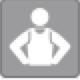
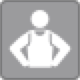
1. Added image support on base object and image display in workout history 2. Added new format for ISO8601 to handle time with milliseconds 3. Added test for the date formatting

diff --git a/sporttracksTests/sporttracksTests.m b/sporttracksTests/sporttracksTests.m
@@ -7,7 +7,7 @@
 //
 
 #import <XCTest/XCTest.h>
-
+#import "NSDate+RFCAndISO.h"
 @interface sporttracksTests : XCTestCase
 
 @end
@@ -26,9 +26,87 @@
     [super tearDown];
 }
 
-- (void)testExample
+- (void)testDateFromRFC1123String
 {
-    XCTFail(@"No implementation for \"%s\"", __PRETTY_FUNCTION__);
+    NSString *test = @"Sun, 06 Nov 1994 08:49:37 GMT"; // RFC 822, updated by RFC 1123
+    NSDate *date = [NSDate dateFromRFC1123String:test];
+    XCTAssert(date != nil, @"String %@ should get properly transformed into a date", test);
+}
+
+- (void)testDateFromRFC850String
+{
+    NSString *test = @"Sunday, 06-Nov-94 08:49:37 GMT"; // RFC 850, obsoleted by RFC 1036
+    NSDate *date = [NSDate dateFromRFC1123String:test];
+    XCTAssert(date != nil, @"String %@ should get properly transformed into a date", test);
+}
+
+- (void)testDateFromAnsiString
+{
+    NSString *test = @"Sun Nov  6 08:49:37 1994"; // ANSI C's asctime() format
+    NSDate *date = [NSDate dateFromRFC1123String:test];
+    XCTAssert(date != nil, @"String %@ should get properly transformed into a date", test);
+}
+
+- (void)testDateFromISO8601StringWithoutMilliseconds
+{
+    NSString *test = @"2012-04-23T13:12:34-05:00";
+    NSDate *date = [NSDate dateFromISO8601String:test];
+    XCTAssert(date != nil, @"String %@ should get properly transformed into a date", test);
+    
+    test = @"2012-04-23T13:12:34+05:00";
+    date = [NSDate dateFromISO8601String:test];
+    XCTAssert(date != nil, @"String %@ should get properly transformed into a date", test);
+    
+    test = @"2012-04-23T13:12:34-0500";
+    date = [NSDate dateFromISO8601String:test];
+    XCTAssert(date != nil, @"String %@ should get properly transformed into a date", test);
+    
+    test = @"2012-04-23T13:12:34+0500";
+    date = [NSDate dateFromISO8601String:test];
+    XCTAssert(date != nil, @"String %@ should get properly transformed into a date", test);
+    
+    test = @"2012-04-23T13:12:34-05";
+    date = [NSDate dateFromISO8601String:test];
+    XCTAssert(date != nil, @"String %@ should get properly transformed into a date", test);
+    
+    test = @"2012-04-23T13:12:34+05";
+    date = [NSDate dateFromISO8601String:test];
+    XCTAssert(date != nil, @"String %@ should get properly transformed into a date", test);
+    
+    test = @"2012-04-23T13:12:34Z";
+    date = [NSDate dateFromISO8601String:test];
+    XCTAssert(date != nil, @"String %@ should get properly transformed into a date", test);
+}
+
+- (void)testDateFromISO8601StringWithMilliseconds
+{
+    NSString *test = @"2012-04-23T13:12:34.456-05:00";
+    NSDate *date = [NSDate dateFromISO8601String:test];
+    XCTAssert(date != nil, @"String %@ should get properly transformed into a date", test);
+    
+    test = @"2012-04-23T13:12:34.456+05:00";
+    date = [NSDate dateFromISO8601String:test];
+    XCTAssert(date != nil, @"String %@ should get properly transformed into a date", test);
+    
+    test = @"2012-04-23T13:12:34.456-0500";
+    date = [NSDate dateFromISO8601String:test];
+    XCTAssert(date != nil, @"String %@ should get properly transformed into a date", test);
+    
+    test = @"2012-04-23T13:12:34.456+0500";
+    date = [NSDate dateFromISO8601String:test];
+    XCTAssert(date != nil, @"String %@ should get properly transformed into a date", test);
+    
+    test = @"2012-04-23T13:12:34.456-05";
+    date = [NSDate dateFromISO8601String:test];
+    XCTAssert(date != nil, @"String %@ should get properly transformed into a date", test);
+    
+    test = @"2012-04-23T13:12:34.456+05";
+    date = [NSDate dateFromISO8601String:test];
+    XCTAssert(date != nil, @"String %@ should get properly transformed into a date", test);
+    
+    test = @"2012-04-23T13:12:34.456Z";
+    date = [NSDate dateFromISO8601String:test];
+    XCTAssert(date != nil, @"String %@ should get properly transformed into a date", test);
 }
 
 @end

diff --git a/sporttracks/NSDate+RFCAndISO.m b/sporttracks/NSDate+RFCAndISO.m
@@ -58,11 +58,9 @@ static NSDateFormatter *__rfc1123DateFormatter = nil;
         __iso8601DateFormatter.timeZone = [NSTimeZone timeZoneForSecondsFromGMT:0];
         
         __iso8601Formats = @[
-                             @"yyyy'-'MM'-'dd'T'HH':'mm':'ssZ", // 2014-04-02T13:12:43Z (UTC Time Zone Name)
-                             @"yyyy'-'MM'-'dd'T'HH':'mm':'ssZZZZZ", // 2014-04-02T13:12:43+02:00 (Time Zone Offset)
-                             @"yyyy'-'MM'-'dd'T'HH':'mm':'ssZZZ", // 2014-04-02T13:12:43+0200 (Time Zone Offset)
-                             @"yyyy'-'MM'-'dd'T'HH':'mm':'ssx", // 2014-04-02T13:12:43+02 (Time Zone Offset)
-                             ];
+                             @"yyyy'-'MM'-'dd'T'HH':'mm':'ssZ", // 2014-04-02T13:12:43Z or 2014-04-02T13:12:43+02:00 or 2014-04-02T13:12:43+0200 or 2014-04-02T13:12:43+02
+                             @"yyyy'-'MM'-'dd'T'HH':'mm':'ss'.'SSSZ" // 2014-04-02T13:12:43.123Z or 2014-04-02T13:12:43.123+02:00 or 2014-04-02T13:12:43.123+0200 or 2014-04-02T13:12:43.123+02
+                            ];
 
     });
     

diff --git a/sporttracks/Model/SBWorkoutSummary.m b/sporttracks/Model/SBWorkoutSummary.m
@@ -40,13 +40,11 @@
         return [__formatter stringFromDate:(NSDate *)[self valueForKey:key]];
     }
     else if ([key isEqualToString:@"duration"] || [key isEqualToString:@"clockDuration"]) {
-        // Format using time formatter
         float seconds = [(NSNumber *)[self valueForKey:key] floatValue];
         float hours = floorf(seconds / 3600.f);
         float minutes = floorf((seconds - hours * 3600) / 60.f);
         seconds = seconds - 60.f * minutes - hours * 3600.f;
         return [NSString stringWithFormat:@"%.0f:%02.0f:%02.0f", hours, minutes, seconds];
-        
     } else if ([key isEqualToString:@"distance"]) {
         // Format m to km
         return [NSString stringWithFormat:@"%3.2fkm", [(NSNumber *)[self valueForKey:key] floatValue] / 1000];

diff --git a/sporttracks/SBHistoryTableViewController.m b/sporttracks/SBHistoryTableViewController.m
@@ -64,8 +64,9 @@
     
     // Configure the cell...
     SBWorkoutSummary *workout = [self.workouts objectAtIndex:indexPath.row];
-    [cell.textLabel setText:[NSString stringWithFormat:@"%@ %@ %@", workout.name, [workout displayValueForKey:@"distance"], [workout displayValueForKey:@"duration"]]];
+    [cell.textLabel setText:[NSString stringWithFormat:@"%@ - %@", [workout displayValueForKey:@"duration"], [workout displayValueForKey:@"distance"]]];
     [cell.detailTextLabel setText:[NSString stringWithFormat:@"%@", [workout displayValueForKey:@"startTime"]]];
+    [cell.imageView setImage:[workout imageForActivityType:workout.type]];
     return cell;
 }
 

diff --git a/sporttracks/Model/SBBaseModelObject.m b/sporttracks/Model/SBBaseModelObject.m
@@ -42,4 +42,13 @@
         }
     }
 }
+
+- (UIImage *)imageForActivityType:(NSString *)type
+{
+    NSString *typeImageName = nil;
+    NSArray *stringComponents = [type componentsSeparatedByString:@":"];
+    typeImageName = [stringComponents firstObject];
+    return [UIImage imageNamed:typeImageName];
+}
+
 @end

diff --git a/sporttracks/Model/SBBaseModelObject.h b/sporttracks/Model/SBBaseModelObject.h
@@ -16,4 +16,6 @@
 
 - (NSString *)mapJSONKeyToPropertyKey:(NSString *)JSONKey;
 - (void)setupWithJSON:(NSDictionary *)JSONDictionary;
+
+- (UIImage *)imageForActivityType:(NSString *)type;
 @end
